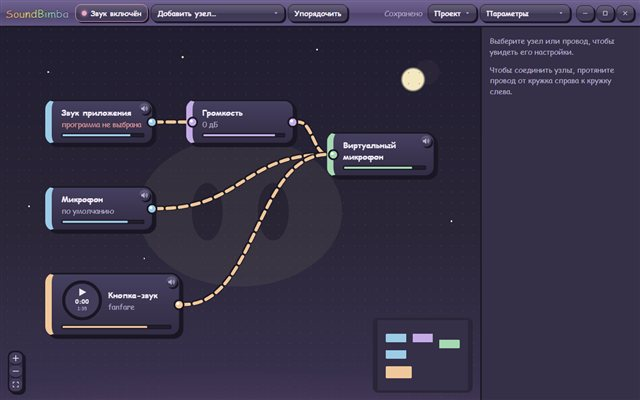
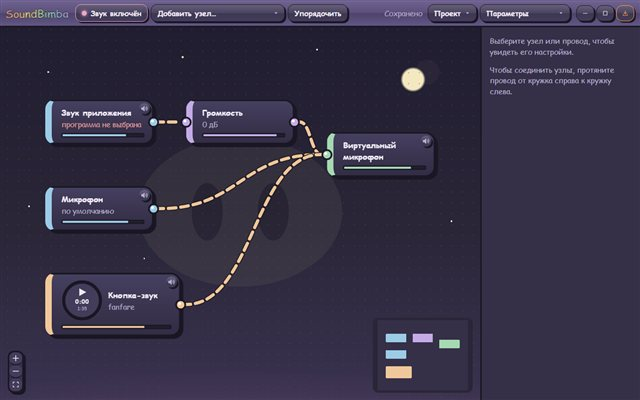
Kids themes: handles on the node edge, no lag from wires and toolbar hover
- Handles sat on the inner edge of the thick node border (12px left,
  3px right); they are moved to the outer edge.
- Wire outline was four CSS drop-shadows around the running dashes,
  recomputed every frame: a big map almost froze the window. The new
  "cartoon" wire shape (CartoonEdge) draws the outline as its own
  dashed path under the wire, running with it. Idle load measured
  0.58 -> 0.27 of a core ("Bimba": 0.1).
- Toolbar buttons no longer tilt on hover: the toolbar is the window
  caption (app-region: drag) and the tilt made Windows recompute the
  drag region every frame. They lift by their shadow instead.
- Settings > Theme: narrower columns so the kids theme shows two
  pictures per row again.

diff --git a/themes/kids-dark/theme.css b/themes/kids-dark/theme.css
@@ -122,6 +122,23 @@
   box-shadow: 1px 1px 0 #1a1724;
 }
 
+/* На верхней панели кнопки не наклоняются: панель — заголовок окна для Windows (app-region),
+   и наклон кнопки каждый кадр заставлял пересчитывать область перетаскивания — окно тормозило.
+   Здесь кнопка «подпрыгивает» тенью. */
+[data-theme='kids-dark'] .toolbar button:not(.button-disc):hover:not(:disabled),
+[data-theme='kids-dark'] .toolbar button:not(.button-disc):active:not(:disabled) {
+  transform: none;
+}
+
+[data-theme='kids-dark'] .toolbar button:not(.button-disc):hover:not(:disabled) {
+  box-shadow: 4px 4px 0 #1a1724;
+  filter: brightness(1.06);
+}
+
+[data-theme='kids-dark'] .toolbar button:not(.button-disc):active:not(:disabled) {
+  box-shadow: 1px 1px 0 #1a1724;
+}
+
 /* Кнопки масштаба карты — одна пухлая панель с обводкой и общей тенью. */
 [data-theme='kids-dark'] .react-flow__controls {
   border: 3px solid #1a1724;
@@ -178,12 +195,30 @@
   background: radial-gradient(circle at 35% 35%, #ffffff 0 18%, var(--cat) 22% 100%);
 }
 
-/* Провода: толстые, с тёмной обводкой; по ним бегут огоньки. */
+/* Точка встаёт на внутренний край рамки — двигаем её на внешний (рамка слева 12px, справа 3px). */
+[data-theme='kids-dark'] .sound-node .react-flow__handle-left {
+  left: -12px;
+}
+
+[data-theme='kids-dark'] .sound-node .react-flow__handle-right {
+  right: -3px;
+}
+
+/* Провода: толстые, с тёмной обводкой; по ним бегут огоньки. Обводка — отдельный путь под
+   проводом (CartoonEdge), не тень: тени вокруг бегущих чёрточек пересчитывались каждый кадр. */
 [data-theme='kids-dark'] .react-flow__edge-path {
   stroke-width: 6;
   stroke-linecap: round;
   stroke-dasharray: 14 9;
-  filter: drop-shadow(1.5px 0 0 #1a1724) drop-shadow(-1.5px 0 0 #1a1724) drop-shadow(0 1.5px 0 #1a1724) drop-shadow(0 -1.5px 0 #1a1724);
+}
+
+/* Обводка — те же чёрточки, только шире: тёмный край вокруг каждого огонька, между ними
+   просвет (сплошная обводка выглядела как чёрная трубка). Бегут вместе с огоньками. */
+[data-theme='kids-dark'] .wire-outline {
+  stroke: #1a1724;
+  stroke-width: 9;
+  stroke-linecap: round;
+  stroke-dasharray: 14 9;
 }
 
 [data-theme='kids-dark'] .meter {
@@ -241,7 +276,8 @@
     animation: kids-dark-bounce 3s ease-in-out infinite;
   }
 
-  [data-theme='kids-dark'] .react-flow__edge-path {
+  [data-theme='kids-dark'] .react-flow__edge-path,
+  [data-theme='kids-dark'] .wire-outline {
     animation: kids-dark-current 1.2s linear infinite;
   }
 }

diff --git a/themes/kids/theme.css b/themes/kids/theme.css
@@ -116,6 +116,23 @@
   box-shadow: 1px 1px 0 #2b1b5a;
 }
 
+/* На верхней панели кнопки не наклоняются: панель — заголовок окна для Windows (app-region),
+   и наклон кнопки каждый кадр заставлял пересчитывать область перетаскивания — окно тормозило.
+   Здесь кнопка «подпрыгивает» тенью. */
+[data-theme='kids'] .toolbar button:not(.button-disc):hover:not(:disabled),
+[data-theme='kids'] .toolbar button:not(.button-disc):active:not(:disabled) {
+  transform: none;
+}
+
+[data-theme='kids'] .toolbar button:not(.button-disc):hover:not(:disabled) {
+  box-shadow: 4px 4px 0 #2b1b5a;
+  filter: brightness(1.06);
+}
+
+[data-theme='kids'] .toolbar button:not(.button-disc):active:not(:disabled) {
+  box-shadow: 1px 1px 0 #2b1b5a;
+}
+
 /* Кнопки масштаба карты — одна пухлая панель с обводкой и общей тенью. */
 [data-theme='kids'] .react-flow__controls {
   border: 3px solid #2b1b5a;
@@ -172,12 +189,30 @@
   background: radial-gradient(circle at 35% 35%, #ffffff 0 18%, var(--cat) 22% 100%);
 }
 
-/* Провода: толстые, с тёмной обводкой; по ним бегут огоньки. */
+/* Точка встаёт на внутренний край рамки — двигаем её на внешний (рамка слева 12px, справа 3px). */
+[data-theme='kids'] .sound-node .react-flow__handle-left {
+  left: -12px;
+}
+
+[data-theme='kids'] .sound-node .react-flow__handle-right {
+  right: -3px;
+}
+
+/* Провода: толстые, с тёмной обводкой; по ним бегут огоньки. Обводка — отдельный путь под
+   проводом (CartoonEdge), не тень: тени вокруг бегущих чёрточек пересчитывались каждый кадр. */
 [data-theme='kids'] .react-flow__edge-path {
   stroke-width: 6;
   stroke-linecap: round;
   stroke-dasharray: 14 9;
-  filter: drop-shadow(1.5px 0 0 #2b1b5a) drop-shadow(-1.5px 0 0 #2b1b5a) drop-shadow(0 1.5px 0 #2b1b5a) drop-shadow(0 -1.5px 0 #2b1b5a);
+}
+
+/* Обводка — те же чёрточки, только шире: тёмный край вокруг каждого огонька, между ними
+   просвет (сплошная обводка выглядела как чёрная трубка). Бегут вместе с огоньками. */
+[data-theme='kids'] .wire-outline {
+  stroke: #2b1b5a;
+  stroke-width: 9;
+  stroke-linecap: round;
+  stroke-dasharray: 14 9;
 }
 
 [data-theme='kids'] .meter {
@@ -235,7 +270,8 @@
     animation: kids-bounce 3s ease-in-out infinite;
   }
 
-  [data-theme='kids'] .react-flow__edge-path {
+  [data-theme='kids'] .react-flow__edge-path,
+  [data-theme='kids'] .wire-outline {
     animation: kids-current 1.2s linear infinite;
   }
 }

diff --git a/app/ui/src/components/CartoonEdge.tsx b/app/ui/src/components/CartoonEdge.tsx
@@ -1,0 +1,19 @@
+// SPDX-License-Identifier: AGPL-3.0-or-later
+// Мультяшный провод (детские темы): толстая кривая с тёмной обводкой, по ней бегут огоньки.
+// Обводка — отдельный путь под проводом, а не CSS-тень (filter: drop-shadow): тени вокруг
+// бегущих чёрточек пересчитывались каждый кадр, и окно с большой схемой почти вставало
+// (замер 2026-11-19: детская тема ≈0,6 ядра в покое против ≈0,1 у «Бимбы»).
+import { BaseEdge, getBezierPath, type EdgeProps } from '@xyflow/react';
+import { memo } from 'react';
+
+function CartoonEdge({ id, sourceX, sourceY, targetX, targetY, sourcePosition, targetPosition, style, markerEnd, interactionWidth }: EdgeProps) {
+  const [path] = getBezierPath({ sourceX, sourceY, sourcePosition, targetX, targetY, targetPosition });
+  return (
+    <>
+      <path className="wire-outline" d={path} fill="none" aria-hidden="true" />
+      <BaseEdge id={id} path={path} style={style} markerEnd={markerEnd} interactionWidth={interactionWidth} />
+    </>
+  );
+}
+
+export default memo(CartoonEdge);

diff --git a/app/ui/src/theme.ts b/app/ui/src/theme.ts
@@ -10,8 +10,9 @@ export interface ThemeMeta {
   /** Место в меню «Тема» (1 — первая). */
   order: number;
   /** Форма проводов: плавные кривые (по умолчанию), дорожки с прямыми углами, как на плате,
-   *  неоновые кривые с искрами у конца, когда провод моргает, или волшебные нити с бегущей искоркой. */
-  wires?: 'curve' | 'traces' | 'neon' | 'magic';
+   *  неоновые кривые с искрами у конца, когда провод моргает, волшебные нити с бегущей искоркой
+   *  или мультяшные провода с тёмной обводкой (путь `.wire-outline` под проводом). */
+  wires?: 'curve' | 'traces' | 'neon' | 'magic' | 'cartoon';
   /** Персонаж темы: картинка themes/<id>/mascot.svg и ключи фраз для облачка (по очереди). */
   mascot?: { lines: string[] };
 }

diff --git a/app/ui/src/components/Workspace.tsx b/app/ui/src/components/Workspace.tsx
@@ -54,6 +54,7 @@ import { setVoiceProfile } from '../morpher';
 import TraceEdge from './TraceEdge';
 import NeonEdge from './NeonEdge';
 import MagicEdge from './MagicEdge';
+import CartoonEdge from './CartoonEdge';
 import CableWizard from './CableWizard';
 import SettingsDialog from './SettingsDialog';
 import type { Notify } from './Notices';
@@ -67,7 +68,7 @@ import Watermark from './Watermark';
 import WelcomeDialog from './WelcomeDialog';
 
 const nodeTypes = { sound: SoundNodeView };
-const edgeTypes = { trace: TraceEdge, neon: NeonEdge, magic: MagicEdge };
+const edgeTypes = { trace: TraceEdge, neon: NeonEdge, magic: MagicEdge, cartoon: CartoonEdge };
 const SAVE_DELAY_MS = 600;
 
 interface Props {

diff --git a/app/ui/src/app.css b/app/ui/src/app.css
@@ -823,7 +823,7 @@ button.crumb:hover {
 /* Темы — снимками: щелчок по снимку включает тему сразу. */
 .theme-grid {
   display: grid;
-  grid-template-columns: repeat(auto-fill, minmax(190px, 1fr));
+  grid-template-columns: repeat(auto-fill, minmax(160px, 1fr));
   gap: 12px;
 }
 

diff --git a/docs/ARCHITECTURE.md b/docs/ARCHITECTURE.md
@@ -257,6 +257,12 @@ Rust (при касании в Virtual Desktop курсор стоит на ме
 группа, широкая красная «Закрыть»; на прежнем месте в панели, не у края окна — решение автора), в «Метро» — как в Windows 8 (плоские, красная
 плитка «Закрыть»).
 
+**Детские темы и скорость (2026-11-19).** Обводка проводов — отдельный путь под проводом
+(`CartoonEdge`, `wires: "cartoon"`), а не CSS-тени: четыре `drop-shadow` вокруг бегущих огоньков
+пересчитывались каждый кадр, окно с большой схемой почти вставало (замер в покое: было ≈0,58 ядра,
+стало ≈0,27; «Бимба» ≈0,1). Кнопки на верхней панели не наклоняются при наведении: панель —
+`app-region: drag`, и наклон каждый кадр заставлял пересчитывать область перетаскивания окна.
+
 **Локализация.** `locales/{ru,en,uk}.json`, ключи вместо строк в коде, запасной язык — английский.
 Язык по умолчанию — язык системы.
 
